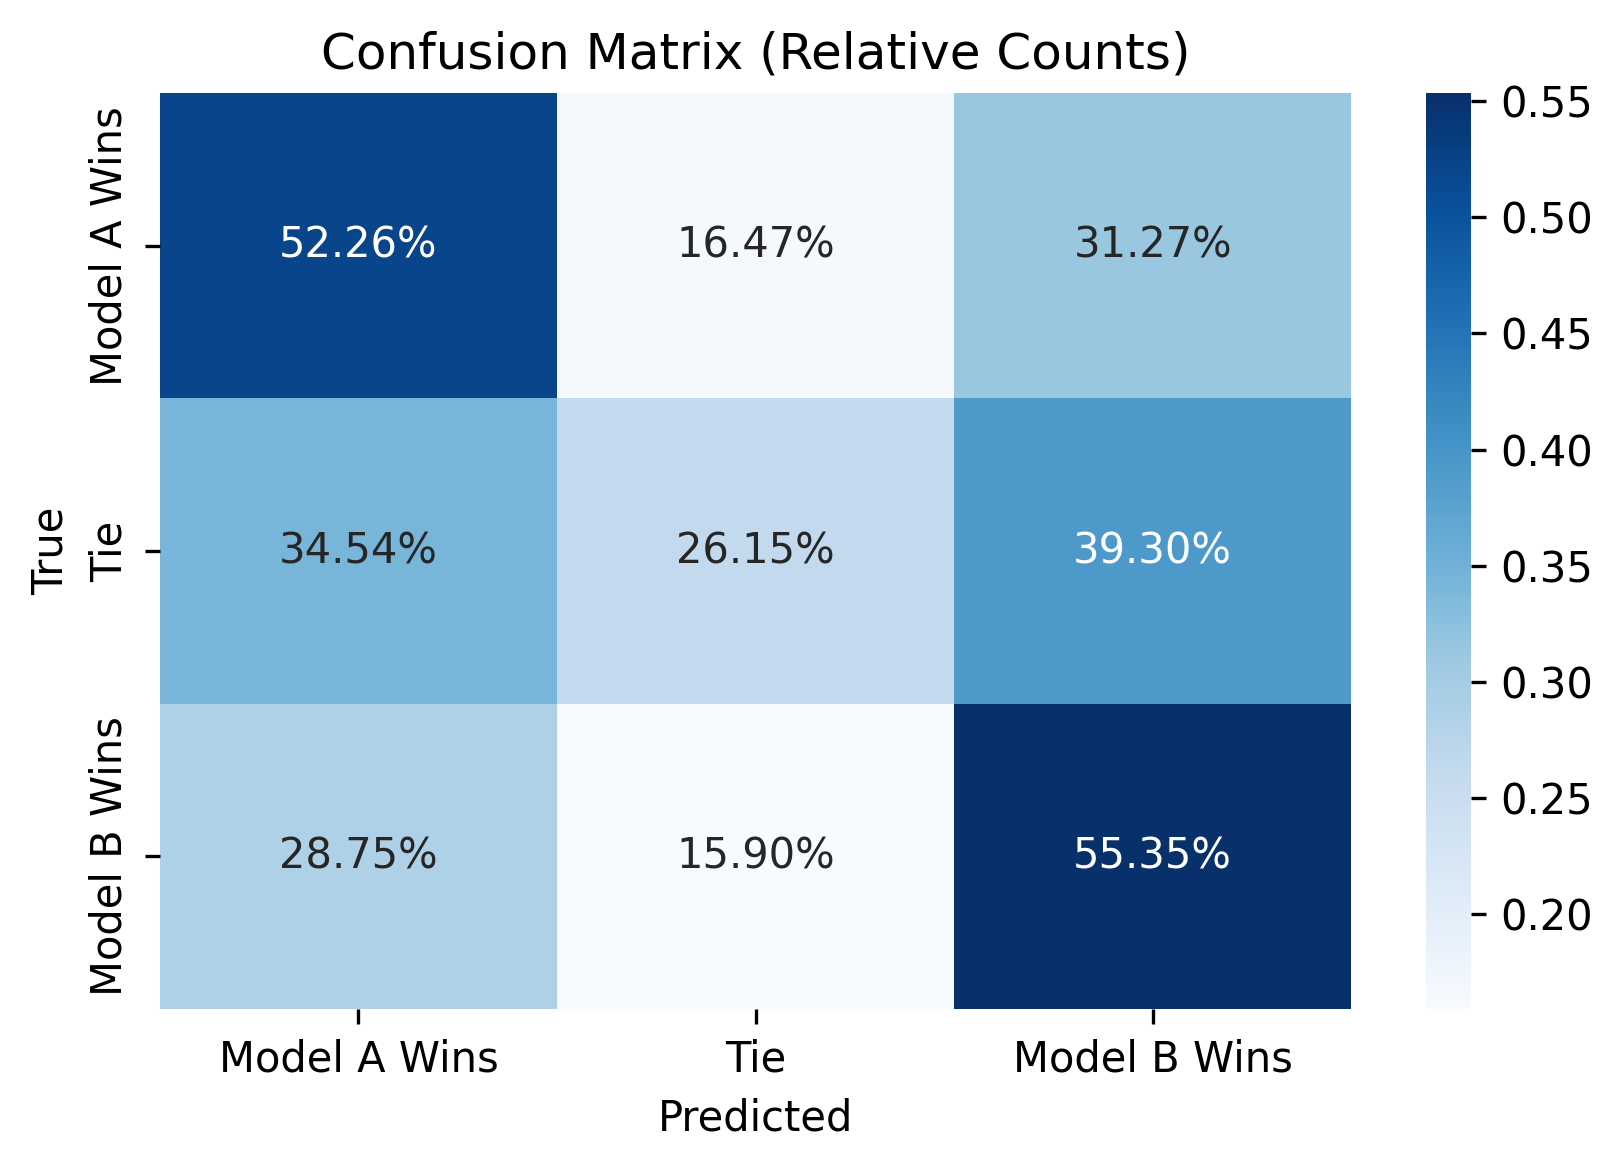
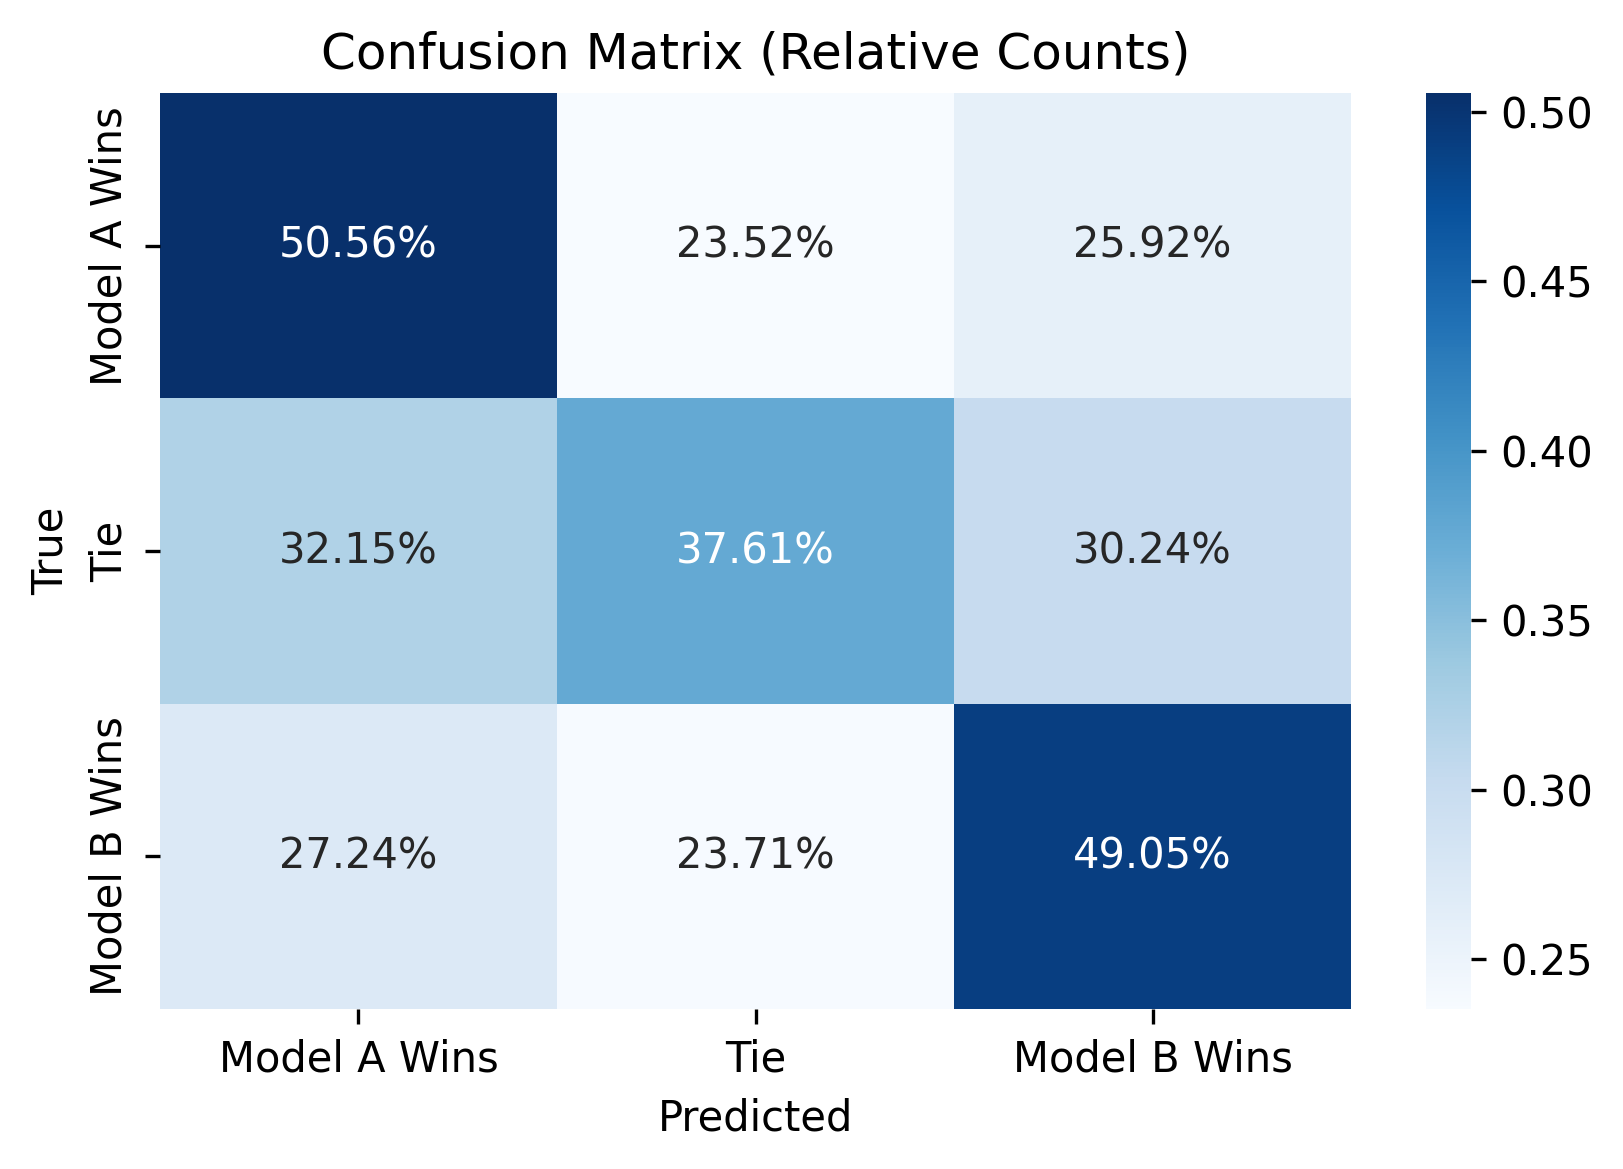
added training of multiple models and parameter sets

diff --git a/main.py b/main.py
@@ -10,6 +10,7 @@ from sklearn.linear_model import LogisticRegression
 from sklearn.metrics import log_loss, confusion_matrix
 from sklearn.model_selection import train_test_split
 from sklearn.preprocessing import StandardScaler
+from xgboost import XGBClassifier
 
 ## TODO:
 # try different models
@@ -202,11 +203,25 @@ def prepare_data(train_df):
     return X_train, X_val, y_train, y_val, scaler
 
 
-def train_model(X_train, y_train):
-    print("Training model...")
-    model = LogisticRegression(solver='lbfgs', max_iter=2000)
+def train_model(X_train, y_train, model_config):
+    """
+    Train a model based on the model_config dictionary.
+
+    model_config should contain:
+      - 'type': A string specifying the type of model ('logistic_regression' or 'xgboost_rf')
+      - Other hyperparameters specific to the model
+    """
+    print(f"Training model: {model_config['type']}")
+
+    if model_config['type'] == 'logistic_regression':
+        model = LogisticRegression(**model_config.get('params', {}))
+    elif model_config['type'] == 'xgboost_rf':
+        model = XGBClassifier(**model_config.get('params', {}))
+    else:
+        raise ValueError(f"Unknown model type: {model_config['type']}")
+
     model.fit(X_train, y_train)
-    print("Model training complete.")
+    print(f"Model training complete: {model_config['type']}")
     return model
 
 
@@ -261,20 +276,35 @@ def create_submission_file(submission_df, filename='submission.csv'):
     print(f"Submission file saved as {filename}")
 
 
-def main():
+def main(models_to_train):
     train_df, test_df = load_data('data/lmsys-chatbot-arena.zip')
     train_df = create_target_column(train_df)
     plot_bias_in_dataset(train_df, 'bias_distribution.png')
     train_df = add_basic_features(train_df)
     test_df = add_basic_features(test_df)
     X_train, X_val, y_train, y_val, scaler = prepare_data(train_df)
-    model = train_model(X_train, y_train)
-    evaluate_model(model, X_val, y_val)
-    submission = make_predictions(model, test_df, scaler)
+
+    for model_config in models_to_train:
+        print(f"Training {model_config['type']} with params: {model_config['params']}")
+        model = train_model(X_train, y_train, model_config)
+        evaluate_model(model, X_val, y_val)
+
+    submission = make_predictions(model, test_df, scaler)  # using the last/most recently trained model?
     create_submission_file(submission)
 
     # Print total runtime
     print(f"Total runtime: {time() - start_time:.2f} seconds")
 
 if __name__ == '__main__':
-    main()
+    models_to_train = [
+        {'type': 'logistic_regression', 'params': {'solver': 'lbfgs', 'max_iter': 2000}},
+        {'type': 'xgboost_rf', 'params': {'n_estimators': 100, 'max_depth': 6, 'random_state': 42}},
+        {'type': 'xgboost_rf', 'params': {'n_estimators': 50, 'max_depth': 4, 'random_state': 42}},
+        {'type': 'xgboost_rf', 'params': {'n_estimators': 100, 'max_depth': 4, 'random_state': 42}},
+        {'type': 'xgboost_rf', 'params': {'n_estimators': 50, 'max_depth': 6, 'random_state': 42}},
+        {'type': 'xgboost_rf', 'params': {'n_estimators': 100, 'max_depth': 6, 'random_state': 42}},
+        {'type': 'xgboost_rf', 'params': {'n_estimators': 50, 'max_depth': 8, 'random_state': 42}},
+        {'type': 'xgboost_rf', 'params': {'n_estimators': 100, 'max_depth': 8, 'random_state': 42}}
+    ]
+
+    main(models_to_train)
